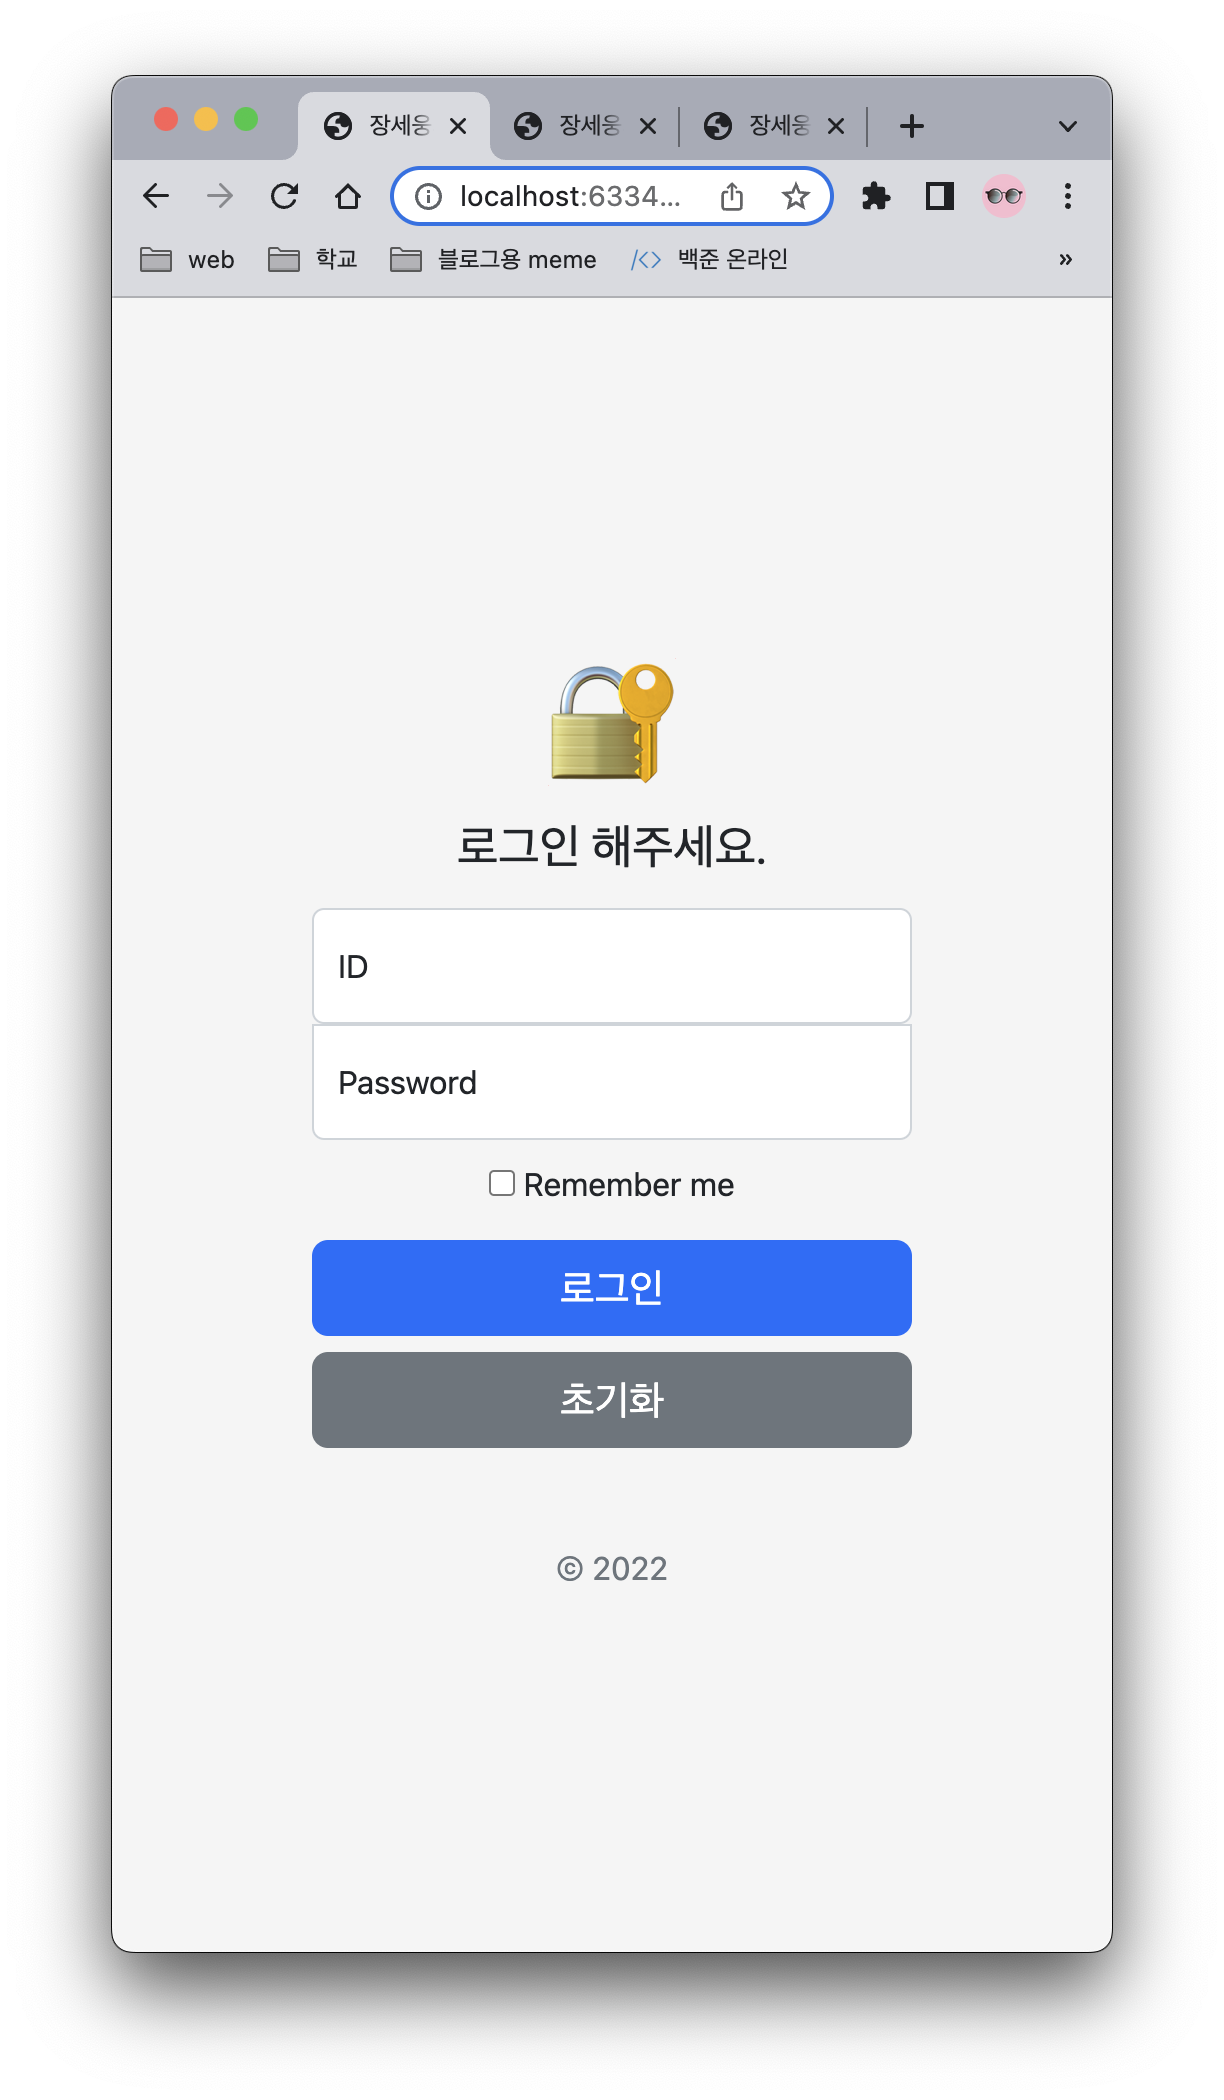
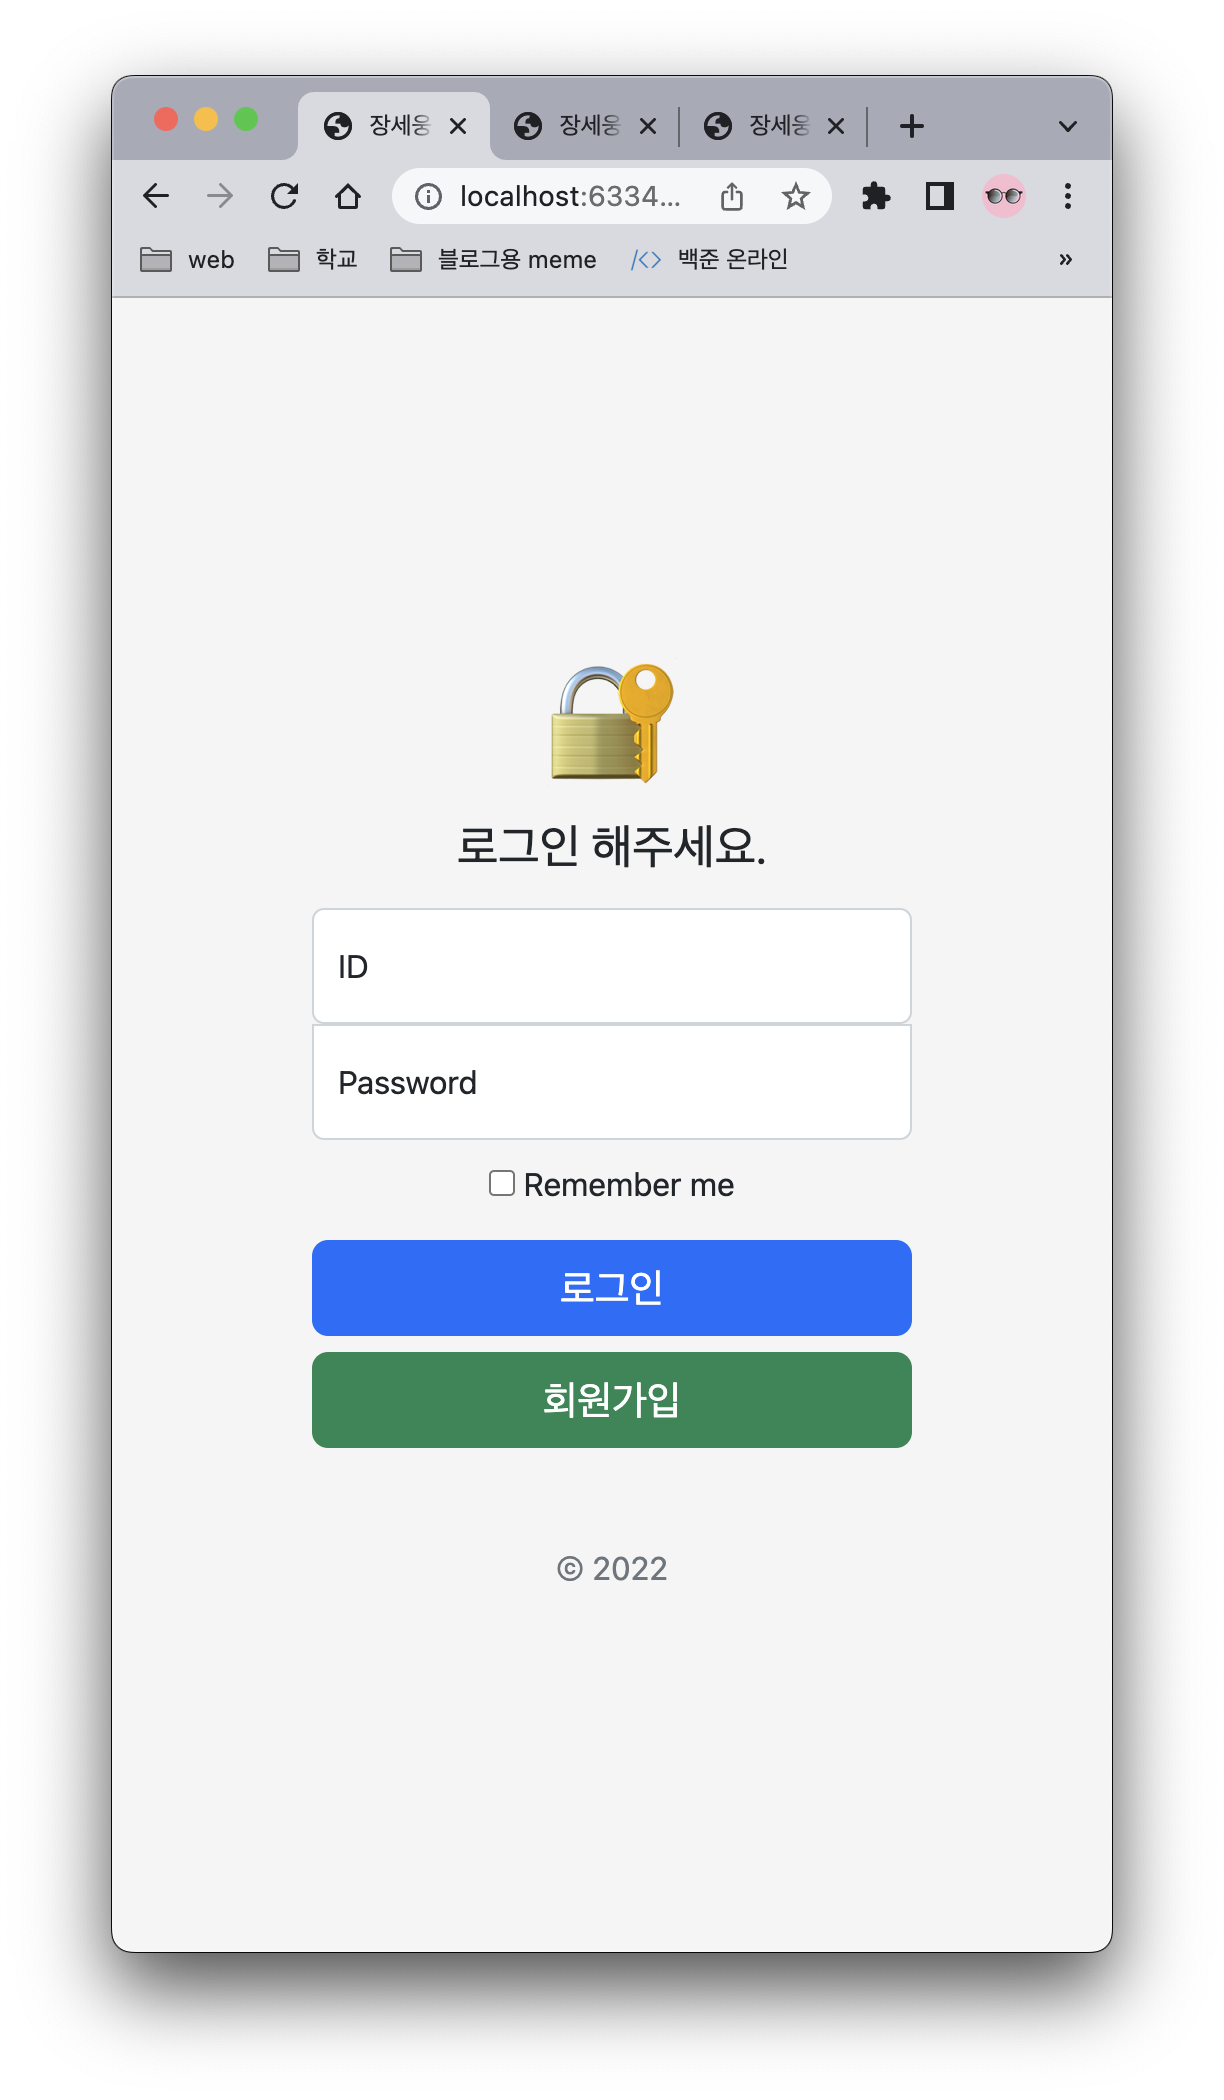
[Doc] 1. README 작성
[HTML]
1. 로그인, 게시판 설계

Changed region(s): [[0.2484, 0.619, 0.7451, 0.7119]]

diff --git a/src/main/resources/templates/login.html b/src/main/resources/templates/login.html
@@ -36,7 +36,7 @@
     </div>
     <div class="d-grid gap-2 d-md-flex justify-content-md-end col-auto">
       <input class="w-100 btn btn-lg btn-primary" type="submit" value="로그인">
-      <input class="w-100 btn btn-lg btn-secondary" type="reset" value="초기화">
+      <button class="w-100 btn btn-lg btn-success" onclick="location.href='#회원가입'">회원가입</button>
     </div>
     <p class="mt-5 mb-3 text-muted">© 2022</p>
   </form>

diff --git a/README.md b/README.md
@@ -23,13 +23,13 @@
 
 ## 화면
 ### 로그인
-![로그인.png](로그인.png)
+<img alt="로그인.png" src="로그인.png"/>
 
 ### 게시글
-![게시글.png](게시글.png)
+<img alt="게시글.png" src="게시글.png"/>
 
 ### 게시글 목록
-![게시글 목록.png](게시글 목록.png)
+<img alt="게시글 목록.png" src="게시글 목록.png"/>
 
 ## DB(ERD)
 
